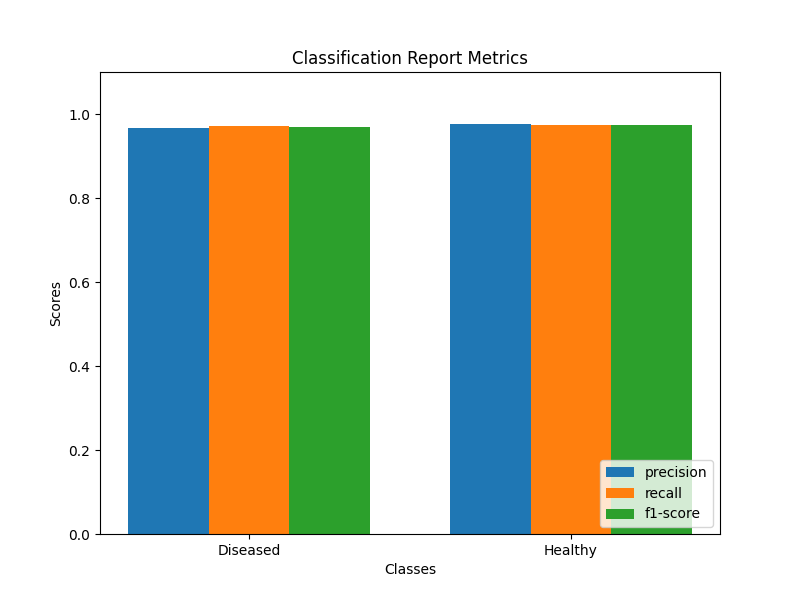
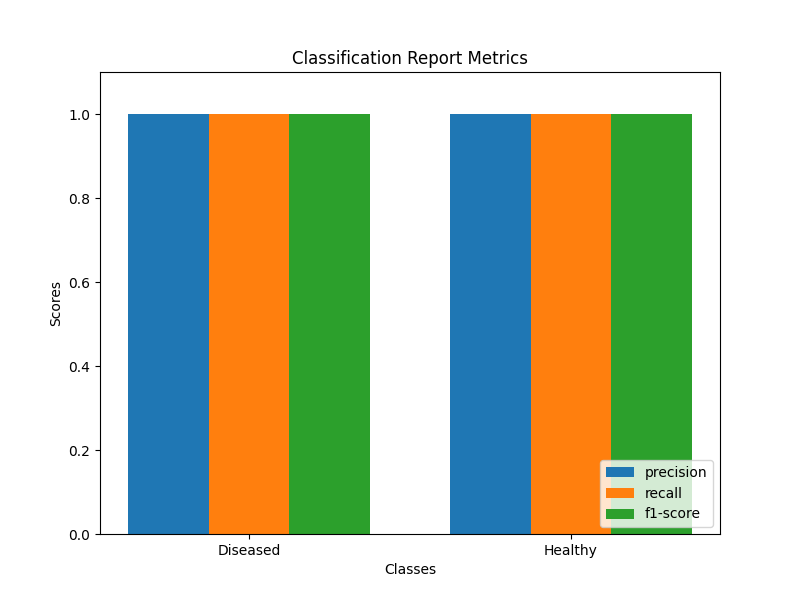
testing dataset updates

Changed region(s): [[0.1562, 0.18, 0.4688, 0.24], [0.5625, 0.18, 0.875, 0.21]]

diff --git a/app.py b/app.py
@@ -14,7 +14,7 @@ app.secret_key = "secret_key"
 # Paths
 MODEL_PATH = "E:/AAA/MoringaLeaf_Classifier/models/moringaleaf_model.h5"
 TRAIN_SCRIPT = "E:/AAA/MoringaLeaf_Classifier/main.py"
-TEST_DIR = "E:/AAA/MoringaLeaf_Classifier/ttest"
+TEST_DIR = "E:/AAA/MoringaLeaf_Classifier/dataset/testing_set"
 UPLOAD_FOLDER = "uploads"
 STATIC_FOLDER = "static"
 os.makedirs(UPLOAD_FOLDER, exist_ok=True)

diff --git a/scripts/evaluation.py b/scripts/evaluation.py
@@ -11,7 +11,7 @@ os.environ['TF_CPP_MIN_LOG_LEVEL'] = '2'
 
 # Paths
 model_path = "E:/AAA/MoringaLeaf_Classifier/models/moringaleaf_model.h5"
-test_dir = "E:/AAA/MoringaLeaf_Classifier/ttest"  # Path to the test directory
+test_dir = "E:/AAA/MoringaLeaf_Classifier/dataset/testing_set"  # Path to the test directory
 
 # Load the trained model
 model = load_model(model_path)
